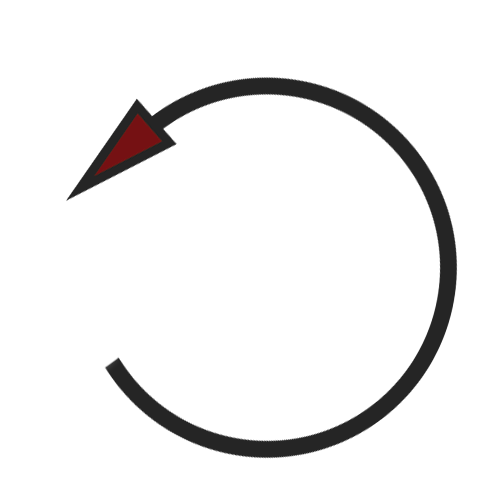
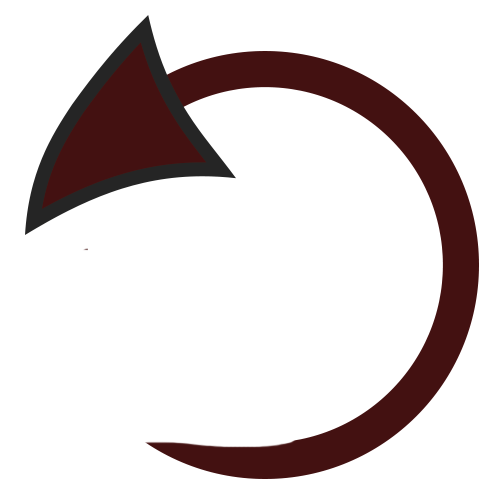
Added u-turn texture

Changed region(s): [[0.03, 0.03, 0.96, 0.96]]

diff --git a/src/main/java/inf112/skeleton/app/libgdx/CardTextureGenerator.java b/src/main/java/inf112/skeleton/app/libgdx/CardTextureGenerator.java
@@ -16,6 +16,7 @@ public class CardTextureGenerator {
     private Texture straightArrow;
     private Texture rotateLeft;
     private Texture basicCard;
+    private Texture uTurn;
     private SpriteLoader spriteLoader;
 
     public CardTextureGenerator() {
@@ -23,6 +24,7 @@ public class CardTextureGenerator {
         straightArrow = new Texture(Gdx.files.internal("cards/arrow_forward.png"));
         rotateLeft = new Texture(Gdx.files.internal("cards/arrow_rotate_90_left.png"));
         basicCard = new Texture(Gdx.files.internal("cards/card.png"));
+        uTurn = new Texture(Gdx.files.internal("cards/uturn.png"));
         spriteLoader = new SpriteLoader();
     }
 
@@ -45,7 +47,7 @@ public class CardTextureGenerator {
     }
 
     private Texture makeUTurn() {
-        return textureEditor.mergeTextures(textureEditor.rotate180(rotateLeft), basicCard, 20, 94, 140, 140);
+        return textureEditor.mergeTextures(uTurn, basicCard, 20, 94, 140, 140);
     }
 
     private Texture makeLeftTurn() {
